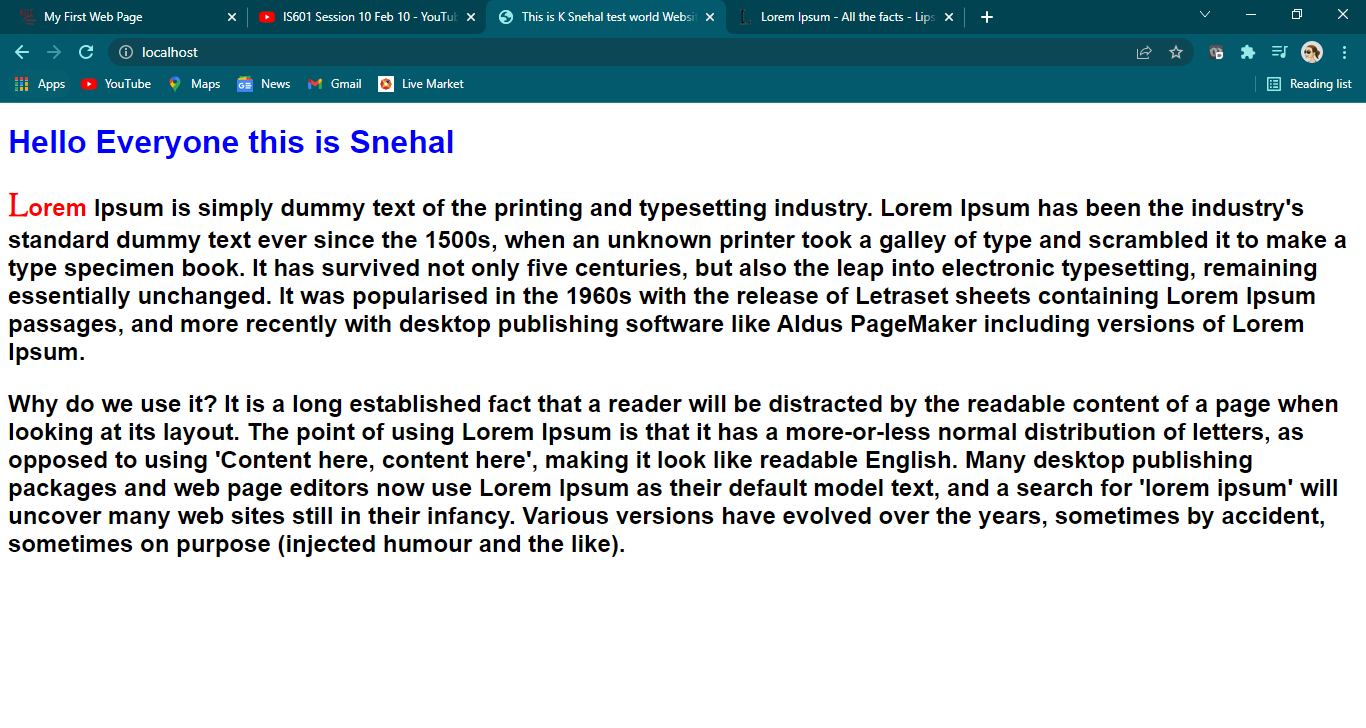
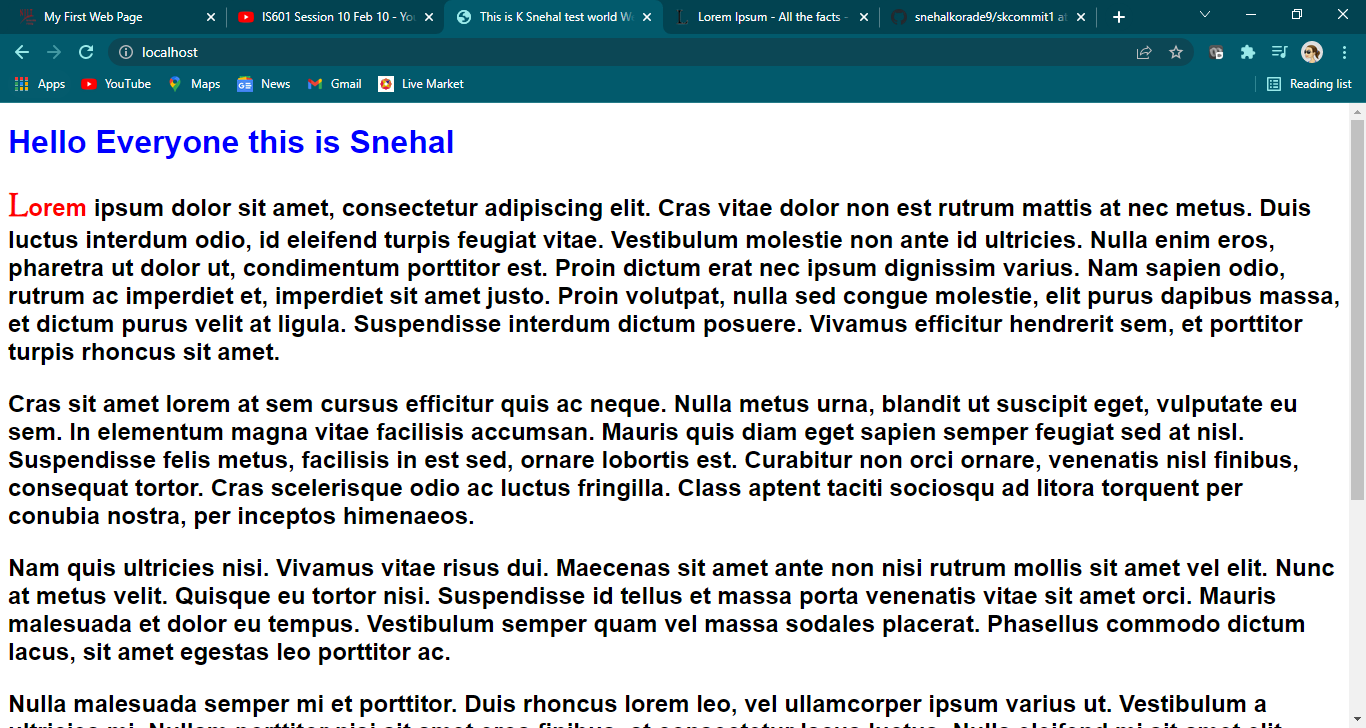
Updated content and screenshot

Changed region(s): [[0.0, 0.1511, 1.0, 0.9066], [0.0, 0.9368, 0.9531, 1.0], [0.1537, 0.0, 0.7994, 0.0604]]

diff --git a/app/templates/index.html b/app/templates/index.html
@@ -19,25 +19,45 @@
 <div id="content">
     <h2>
         <p>
-            <span class="red"><span class="CenterThic fnt">L</span>orem</span> Ipsum is simply dummy text of the printing and typesetting industry. Lorem Ipsum has been the industry's
-        standard dummy text ever since the 1500s, when an unknown printer took a galley of type and scrambled it to make
-        a type specimen book. It has survived not only five centuries, but also the leap into electronic typesetting,
-        remaining essentially unchanged. It was popularised in the 1960s with the release of Letraset sheets containing
-        Lorem Ipsum passages, and more recently with desktop publishing software like Aldus PageMaker including versions
-        of Lorem Ipsum.
+            <span class="red"><span class="CenterThic fnt">L</span>orem</span> ipsum dolor sit amet, consectetur
+            adipiscing elit. Cras vitae dolor non est rutrum mattis at nec metus. Duis luctus interdum odio, id eleifend
+            turpis feugiat vitae. Vestibulum molestie non ante id ultricies. Nulla enim eros, pharetra ut dolor ut,
+            condimentum porttitor est. Proin dictum erat nec ipsum dignissim varius. Nam sapien odio, rutrum ac
+            imperdiet et, imperdiet sit amet justo. Proin volutpat, nulla sed congue molestie, elit purus dapibus massa,
+            et dictum purus velit at ligula. Suspendisse interdum dictum posuere. Vivamus efficitur hendrerit sem, et
+            porttitor turpis rhoncus sit amet.
         </p>
         <p>
-        Why do we use it?
-        It is a long established fact that a reader will be distracted by the readable content of a page when looking at
-        its layout. The point of using Lorem Ipsum is that it has a more-or-less normal distribution of letters, as
-        opposed to using 'Content here, content here', making it look like readable English. Many desktop publishing
-        packages and web page editors now use Lorem Ipsum as their default model text, and a search for 'lorem ipsum'
-        will uncover many web sites still in their infancy. Various versions have evolved over the years, sometimes by
-        accident, sometimes on purpose (injected humour and the like).
+            Cras sit amet lorem at sem cursus efficitur quis ac neque. Nulla metus urna, blandit ut suscipit eget,
+            vulputate eu sem. In elementum magna vitae facilisis accumsan. Mauris quis diam eget sapien semper feugiat
+            sed at nisl. Suspendisse felis metus, facilisis in est sed, ornare lobortis est. Curabitur non orci ornare,
+            venenatis nisl finibus, consequat tortor. Cras scelerisque odio ac luctus fringilla. Class aptent taciti
+            sociosqu ad litora torquent per conubia nostra, per inceptos himenaeos.
         </p>
-
+        <p>
+            Nam quis ultricies nisi. Vivamus vitae risus dui. Maecenas sit amet ante non nisi rutrum mollis sit amet vel
+            elit. Nunc at metus velit. Quisque eu tortor nisi. Suspendisse id tellus et massa porta venenatis vitae sit
+            amet orci. Mauris malesuada et dolor eu tempus. Vestibulum semper quam vel massa sodales placerat. Phasellus
+            commodo dictum lacus, sit amet egestas leo porttitor ac.
+        </p>
+        <p>
+            Nulla malesuada semper mi et porttitor. Duis rhoncus lorem leo, vel ullamcorper ipsum varius ut. Vestibulum
+            a ultricies mi. Nullam porttitor nisi sit amet eros finibus, at consectetur lacus luctus. Nulla eleifend mi
+            sit amet elit laoreet, ut elementum augue eleifend. Etiam vel leo lectus. Sed tempus elit quis est gravida
+            tempor quis eu elit. Sed interdum dapibus imperdiet. Class aptent taciti sociosqu ad litora torquent per
+            conubia nostra, per inceptos himenaeos. Morbi quis cursus tellus, vitae pulvinar justo. Proin eu nibh nisi.
+            Donec venenatis consequat tincidunt. Mauris aliquet elementum congue.
+        </p>
+        <p>
+            Nunc sollicitudin ullamcorper elit, dignissim cursus nibh iaculis sed. Maecenas ut enim at velit facilisis
+            mollis at at eros. Ut sed odio malesuada, condimentum tortor a, convallis mi. Ut non nibh facilisis,
+            consequat risus et, pulvinar lectus. Nunc semper, nunc sit amet tincidunt sodales, velit velit mattis elit,
+            ut dignissim erat arcu sed neque. Pellentesque a volutpat quam, sit amet egestas dui. Mauris accumsan ac
+            velit vitae pharetra. Quisque neque orci, ultrices ut dui eu, consequat faucibus diam. Maecenas sit amet
+            risus mauris. Nam sit amet suscipit tellus. Pellentesque sit amet nunc mattis, fermentum odio eu, posuere
+            justo.
+        </p>
     </h2>
 </div>
-</body>
 </body>
 </html>
